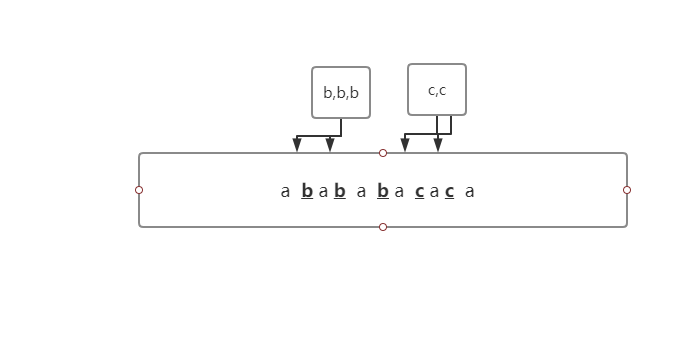
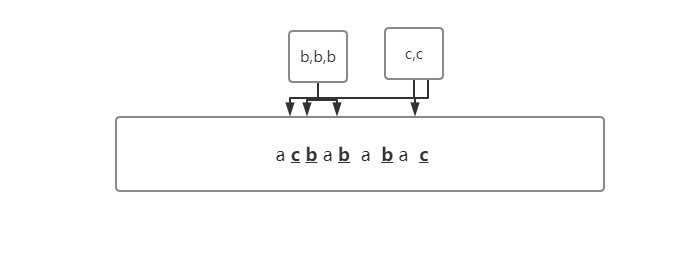
GitBook: [master] one page and 3 assets modified

diff --git a/leetcode/tag.md b/leetcode/tag.md
@@ -46,11 +46,11 @@ Output: ""
 
 1.如果这个字符数量大于等于其他的总和，那么其余所有字符只需依次插空 
 
-![](../.gitbook/assets/image%20%28128%29.png)
+![](../.gitbook/assets/image%20%28129%29.png)
 
 2.如果这个字符数量没有那么多，插到最末尾后，就重头开始循环插空 
 
-![](../.gitbook/assets/image%20%28127%29.png)
+![](../.gitbook/assets/image%20%28128%29.png)
 
 第一个图，依次把b和c插完了 第二个图，当到第二个c时，已经到末尾了，就重头开始插空（插空都是从第1个后面的空格开始，因为对于极端情况，当a比其他所有字符数量刚好大于1时，只有这样才能相邻不相同）
 
@@ -887,9 +887,82 @@ class Solution {
 
 ### 原题
 
+Given an array `A` of non-negative integers, return the maximum sum of elements in two non-overlapping \(contiguous\) subarrays, which have lengths `L` and `M`.  \(For clarification, the `L`-length subarray could occur before or after the `M`-length subarray.\)
+
+Formally, return the largest `V` for which `V = (A[i] + A[i+1] + ... + A[i+L-1]) + (A[j] + A[j+1] + ... + A[j+M-1])` and either:
+
+* `0 <= i < i + L - 1 < j < j + M - 1 < A.length`, **or**
+* `0 <= j < j + M - 1 < i < i + L - 1 < A.length`.
+
+1. 
+**Example 1:**
+
+```text
+Input: A = [0,6,5,2,2,5,1,9,4], L = 1, M = 2
+Output: 20
+Explanation: One choice of subarrays is [9] with length 1, and [6,5] with length 2.
+```
+
+**Example 2:**
+
+```text
+Input: A = [3,8,1,3,2,1,8,9,0], L = 3, M = 2
+Output: 29
+Explanation: One choice of subarrays is [3,8,1] with length 3, and [8,9] with length 2.
+```
+
+**Example 3:**
+
+```text
+Input: A = [2,1,5,6,0,9,5,0,3,8], L = 4, M = 3
+Output: 31
+Explanation: One choice of subarrays is [5,6,0,9] with length 4, and [3,8] with length 3.
+```
+
+**Note:**
+
+1. `L >= 1`
+2. `M >= 1`
+3. `L + M <= A.length <= 1000`
+4. `0 <= A[i] <= 1000`
+
 ### 思路
 
+前缀和
+
+`Lsum`, sum of the last `L` elements  
+ `Msum`, sum of the last `M` elements
+
+`Lmax`, max sum of contiguous `L` elements before the last `M` elements.  
+ `Mmax`, max sum of contiguous `M` elements before the last `L` elements/
+
+#### **复杂度：**
+
+Two pass, `O(N)` time,`O(1)` extra space.
+
+It can be done in one pass. I just don't feel like merging them.  
+ If you don't like change the original input, don't have to.
+
 ### 代码
+
+```java
+class Solution {
+    public int maxSumTwoNoOverlap(int[] A, int L, int M) {
+        //求出前缀和
+        for (int i = 1; i < A.length; ++i) {
+            A[i] += A[i - 1];
+        }
+        
+        int res = A[L + M - 1], Lmax = A[L - 1], Mmax = A[M - 1];
+        for (int i = L + M; i < A.length; ++i) {
+            Lmax = Math.max(Lmax, A[i - M] - A[i - L - M]);
+            Mmax = Math.max(Mmax, A[i - L] - A[i - L - M]);
+            res = Math.max(res, Math.max(Lmax + A[i] - A[i - M], Mmax + A[i] - A[i - L]));
+        }
+        return res;
+    }
+}
+```
 
 ##  1060 Missing Element in Sorted Array 
 
